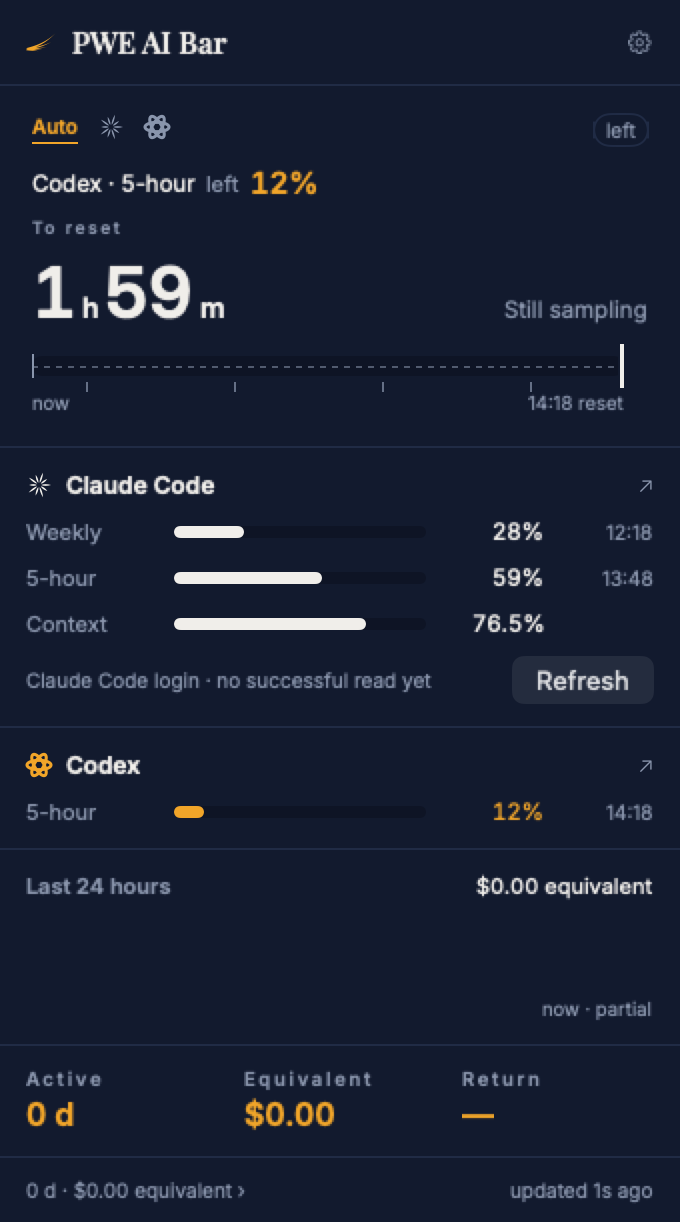
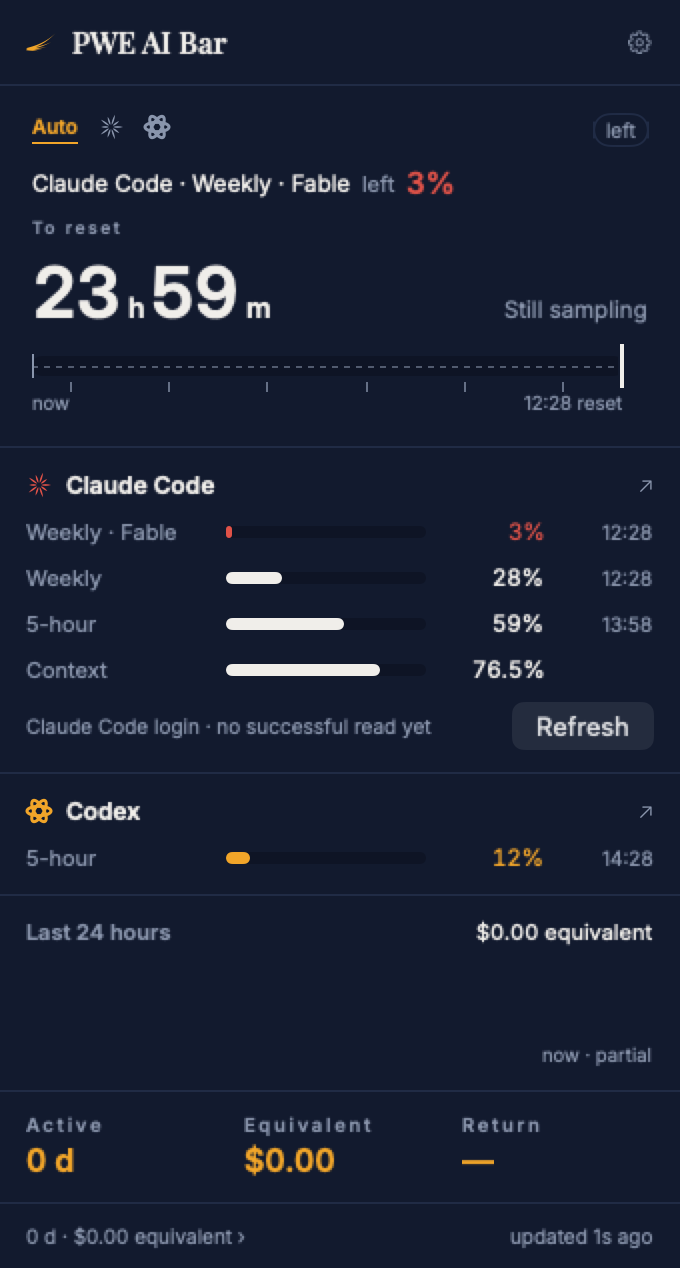
英文排得开：标签是长了，不是列窄了；战绩页四处收拾
**面板的列宽是按「周窗口」量的。** 同样的意思在拉丁文里要两三倍长，
于是 `Weekly · Fable` 到了那一列里变成 `Weekly · F…`，四行里三行被截。

修法不是把列拉宽了事。**先改文案**：英文里 "window" 是废字——那一行本来就是个窗口，
原生英文界面会写 `Weekly` 和 `5-hour`。中文保持「周窗口 / 五小时窗口」不动，
因为「周」单独不成词。然后列宽按语言分两档（汉字 66，拉丁 92），
最长的真实标签 `Weekly · Fable` 现在放得下——渲染样本里专门加了它，不是估的。

战绩页：

- **没有公开定价的模型显示成 `$0.00`。** 那读起来是「这部分免费」，
  而事实是「价格表里没有这个模型」——两种完全不同的说法，而且显示的是错的那种。
  改成 `—`，并在列表下面用一行说清楚。
- **回合数没有千分位。** `53264 turns` 是这一页上唯一没有分隔符的数字，
  旁边就是 `18.4 M` 和 `1.88 B`。
- **`claude-fable-5-1` 渲染成 `fable 5 1`** —— 两个数字，而上一行的 `opus 5` 是一个。
  点版本号是版本，不是第三个词。相邻的纯数字段现在用点接回去，配了测试。
- 对比条的图例原来两行，压成一行。

129 个测试，278 个 key。四张 README 配图重渲染过。

diff --git a/Sources/PWEAIBar/App/TrophyView.swift b/Sources/PWEAIBar/App/TrophyView.swift
@@ -124,8 +124,7 @@ struct TrophyView: View {
             }
             .frame(height: 29)
             if t.subscriptionMonthly != nil {
-                Text(L("trophy.barLegend",
-                       "Above: equivalent API cost.  Below: the subscription over the same span, same scale"))
+                Text(L("trophy.barLegend", "Same scale: cost above, subscription below"))
                     .font(Theme.sans(10.5)).foregroundStyle(Theme.hex(Theme.textDark2))
             }
         }
@@ -175,13 +174,23 @@ struct TrophyView: View {
                     HStack(spacing: Theme.s1 + 1) {
                         RoundedRectangle(cornerRadius: 2).fill(modelColour(i))
                             .frame(width: 9, height: 9)
-                        Text(short(m.model)).font(Theme.sans(12)).foregroundStyle(Theme.text)
+                        Text(shortModelName(m.model)).font(Theme.sans(12)).foregroundStyle(Theme.text)
                             .lineLimit(1).truncationMode(.middle)
-                        Text(String(format: L("trophy.turns", "%d turns"), m.turns)).font(Theme.figures(11, 400))
-                            .foregroundStyle(Theme.text2)
+                        Text(String(format: L("trophy.turns", "%@ turns"), grouped(m.turns)))
+                            .font(Theme.figures(11, 400)).foregroundStyle(Theme.text2)
                         Spacer()
-                        Text(money(m.usd)).font(Theme.figures(12, 500)).foregroundStyle(Theme.text)
+                        // A model with turns but no cost is one the price table does not carry —
+                        // rendering that as "$0.00" says the work was free, which is a different
+                        // claim entirely and the wrong one.
+                        Text(m.usd > 0 ? money(m.usd) : "—")
+                            .font(Theme.figures(12, 500))
+                            .foregroundStyle(m.usd > 0 ? Theme.text : Theme.text2)
                     }
+                }
+                if t.byModel.contains(where: { $0.usd <= 0 && $0.turns > 0 }) {
+                    Text(L("trophy.unpriced", "— no published price for that model, so it counts as nothing here"))
+                        .font(Theme.sans(10.5)).foregroundStyle(Theme.text2)
+                        .fixedSize(horizontal: false, vertical: true)
                 }
             }
         }
@@ -251,6 +260,12 @@ struct TrophyView: View {
         i == 3 ? modelColour(0) : Theme.accent.opacity(0.4 + 0.2 * Double(i))
     }
 
+    /// Thousand separators, used wherever a raw count is shown. `53264 turns` was the one place
+    /// on this page a figure was printed without them.
+    private func grouped(_ v: Int) -> String {
+        Self.grouped.string(from: NSNumber(value: v)) ?? "\(v)"
+    }
+
     private func grid(_ k: String, _ v: Int, raw: Bool = false, share: Double? = nil,
                       swatch: Color? = nil) -> some View {
         HStack {
@@ -267,7 +282,7 @@ struct TrophyView: View {
                     .font(Theme.figures(11, 400)).foregroundStyle(Theme.text2)
                     .frame(width: 44, alignment: .trailing)
             }
-            Text(raw ? (Self.grouped.string(from: NSNumber(value: v)) ?? "\(v)") : big(v))
+            Text(raw ? grouped(v) : big(v))
                 .font(Theme.figures(12, 500)).foregroundStyle(Theme.text)
                 .frame(width: 72, alignment: .trailing)
         }
@@ -284,9 +299,23 @@ struct TrophyView: View {
         i == 0 ? Theme.dyn(light: Theme.navy, dark: 0x8FA9D6) : Theme.accent
     }
 
-    private func short(_ m: String) -> String {
-        m.replacingOccurrences(of: "claude-", with: "")
-         .replacingOccurrences(of: "-", with: " ")
+    /// `claude-fable-5-1` → `fable 5.1`.
+    ///
+    /// Turning every hyphen into a space rendered the point release as a third word — `fable 5 1`
+    /// reads as two numbers, and on the row above it `opus 5` is one. Consecutive numeric
+    /// segments are a version, so they are rejoined with a dot; everything else stays a word.
+    func shortModelName(_ m: String) -> String {
+        var parts = m.replacingOccurrences(of: "claude-", with: "").split(separator: "-").map(String.init)
+        var out: [String] = []
+        for part in parts {
+            if let last = out.last, last.allSatisfy(\.isNumber), part.allSatisfy(\.isNumber) {
+                out[out.count - 1] = last + "." + part
+            } else {
+                out.append(part)
+            }
+        }
+        parts = out
+        return parts.joined(separator: " ")
     }
 
     /// `%,.0f` is not a thing in Swift — that is Python's and Java's grouping flag, and here it

diff --git a/Tests/PWEAIBarTests/BilingualRender.swift b/Tests/PWEAIBarTests/BilingualRender.swift
@@ -26,13 +26,18 @@ final class BilingualRenderTests: XCTestCase {
             var snap = Snapshot()
             let at = Date()
             snap.windows = [
-                QuotaWindow(id: "w", provider: .claude, channel: .week, title: "Weekly", percent: 72,
+                // The longest label the mapper can actually produce: a model-scoped weekly window.
+                QuotaWindow(id: "ws", provider: .claude, channel: .week,
+                            title: String(format: L("channel.weekScoped", "Weekly · %@"), "Fable"),
+                            percent: 97, severity: .critical,
+                            resetsAt: at.addingTimeInterval(86400)),
+                QuotaWindow(id: "w", provider: .claude, channel: .week, title: L("channel.week", "Weekly"), percent: 72,
                             severity: .normal, resetsAt: at.addingTimeInterval(86400),
                             isActive: true, windowLength: 7 * 86400),
-                QuotaWindow(id: "s", provider: .claude, channel: .session, title: "5-hour", percent: 41,
+                QuotaWindow(id: "s", provider: .claude, channel: .session, title: L("channel.session", "5-hour"), percent: 41,
                             severity: .normal, resetsAt: at.addingTimeInterval(5400),
                             isActive: true, windowLength: 5 * 3600),
-                QuotaWindow(id: "c", provider: .codex, channel: .codex, title: "5-hour", percent: 88,
+                QuotaWindow(id: "c", provider: .codex, channel: .codex, title: L("channel.session", "5-hour"), percent: 88,
                             severity: .warning, resetsAt: at.addingTimeInterval(7200)),
             ]
             snap.contextPercent = 23.5
@@ -47,6 +52,29 @@ final class BilingualRenderTests: XCTestCase {
                                         enableRealQuota: {}, prefs: prefs,
                                         tokenEditor: TokenEditor(hasToken: false), hookInstalled: false)
             try shoot(AnyView(settings), width: 380, to: out.appendingPathComponent("settings-\(lang.rawValue).png"))
+            // The trophy page with the shape real data actually has: five-figure turn counts and
+            // a model the price table does not carry.
+            var t = Trophy()
+            t.days = 39; t.turns = 68_967
+            t.equivalentUSD = 20_673; t.subscriptionUSD = 130
+            t.range = .all
+            t.subscriptionMonthly = Subscription(plan: "max_5x", display: "Max 5×",
+                                                 currency: "USD", monthly: 100, monthlyUSD: 100)
+            let models: [(model: String, turns: Int, usd: Double)] = [
+                ("claude-opus-5", 53_264, 13_461), ("claude-fable-5", 11_973, 5_521),
+                ("claude-fable-5-1", 3_151, 1_662), ("claude-sonnet-5", 81, 29.63),
+                ("gpt-5-6-sol", 498, 0),
+            ]
+            t.byModel = models
+            let shape: [Double] = [120, 940, 310, 60, 620, 1480, 205]
+            t.byDay = (0..<39).map { (i: Int) -> (String, Double) in
+                (String(format: "2026-08-%02d", i % 28 + 1), shape[i % 7] + Double(i * 9))
+            }
+            t.tokens = (18_402_113, 2_940_881, 41_002_774, 1_884_339_002)
+            for dark in [true, false] {
+                try shoot(AnyView(TrophyView(trophy: t, prefs: prefs)), width: 460, dark: dark,
+                          to: out.appendingPathComponent("trophy-\(lang.rawValue)-\(dark ? "dark" : "light").png"))
+            }
             store.stop()
         }
         Loc.language = .en

diff --git a/Sources/PWEAIBar/Providers/ClaudeUsageMapper.swift b/Sources/PWEAIBar/Providers/ClaudeUsageMapper.swift
@@ -70,8 +70,8 @@ enum ClaudeUsageMapper {
             guard let kind = ClaudeValue.text(node["kind"]) else { continue }
             let id: String, label: String, channel: Channel
             switch kind {
-            case "session": id = "five_hour"; label = L("channel.session", "5-hour window"); channel = .session
-            case "weekly_all": id = "seven_day"; label = L("channel.week", "Weekly window"); channel = .week
+            case "session": id = "five_hour"; label = L("channel.session", "5-hour"); channel = .session
+            case "weekly_all": id = "seven_day"; label = L("channel.week", "Weekly"); channel = .week
             default:
                 guard kind == "weekly_scoped" || node["group"] as? String == "weekly" else { continue }
                 let scope = node["scope"] as? [String: Any] ?? [:]
@@ -146,8 +146,8 @@ enum ClaudeUsageMapper {
     }
 
     private static func title(_ id: String) -> String {
-        if id == "five_hour" { return L("channel.session", "5-hour window") }
-        if id == "seven_day" { return L("channel.week", "Weekly window") }
+        if id == "five_hour" { return L("channel.session", "5-hour") }
+        if id == "seven_day" { return L("channel.week", "Weekly") }
         return id.replacingOccurrences(of: "seven_day_",
                                       with: String(format: L("channel.weekScoped", "Weekly · %@"), ""))
             .replacingOccurrences(of: "_", with: " ").capitalized

diff --git a/Sources/PWEAIBar/App/PanelView.swift b/Sources/PWEAIBar/App/PanelView.swift
@@ -487,9 +487,13 @@ struct PanelView: View {
         HStack(spacing: Theme.s2) {
             // Fixed columns keep the four baselines aligned down the whole panel; truncation
             // is what stops an unexpectedly long name from pushing the number off the edge.
+            //
+            // Two widths, because 66 pt was measured against 「周窗口」. The same meaning in Latin
+            // runs two to three times longer — "Weekly · Fable" arrived as "Weekly · F…" — and a
+            // column sized for Han truncates almost every English label it is given.
             Text(w.title).font(Theme.sans(11)).foregroundStyle(Theme.text2)
                 .lineLimit(1).truncationMode(.tail)
-                .frame(width: 66, alignment: .leading)
+                .frame(width: Loc.isCJK ? 66 : 92, alignment: .leading)
             track(w).frame(maxWidth: .infinity)
             Text(Readout.panelText(w, remaining: prefs.showRemaining)).font(Theme.figures(11.5, 600))
                 .foregroundStyle(Theme.health(w.band, dark: isDark))

diff --git a/Sources/PWEAIBar/Providers/CodexProvider.swift b/Sources/PWEAIBar/Providers/CodexProvider.swift
@@ -146,8 +146,8 @@ actor CodexProvider {
         // Chinese numerals for the two everyone has, so Codex's rows read the same as Claude's;
         // digits for anything unusual, where being exact matters more than matching.
         switch minutes {
-        case .some(300):                       return L("channel.session", "5-hour window")
-        case .some(10080):                     return L("channel.week", "Weekly window")
+        case .some(300):                       return L("channel.session", "5-hour")
+        case .some(10080):                     return L("channel.week", "Weekly")
         case .some(let m) where m <= 60:       return String(format: L("window.minutes", "%d-minute window"), m)
         case .some(let m) where m < 1440:      return String(format: L("window.hours", "%d-hour window"), m / 60)
         case .some(let m) where m % 1440 == 0: return String(format: L("window.days", "%d-day window"), m / 1440)

diff --git a/Tests/PWEAIBarTests/LocalisationTests.swift b/Tests/PWEAIBarTests/LocalisationTests.swift
@@ -51,3 +51,18 @@ final class LocalisationTests: XCTestCase {
         }
     }
 }
+
+/// Small display formatters that were each wrong in a way a screenshot showed and a test did not.
+final class TrophyFormattingTests: XCTestCase {
+    override func setUp() { super.setUp(); Loc.language = .en }
+
+    /// `claude-fable-5-1` used to render as `fable 5 1` — two numbers, next to `opus 5` which is
+    /// one. A point release is a version, not a third word.
+    @MainActor func testAPointReleaseStaysOneNumber() {
+        let v = TrophyView(trophy: Trophy())
+        XCTAssertEqual(v.shortModelName("claude-fable-5-1"), "fable 5.1")
+        XCTAssertEqual(v.shortModelName("claude-opus-5"), "opus 5")
+        XCTAssertEqual(v.shortModelName("claude-haiku-4-5"), "haiku 4.5")
+        XCTAssertEqual(v.shortModelName("gpt-5-6-sol"), "gpt 5.6 sol")
+    }
+}

diff --git a/Tests/PWEAIBarTests/QuotaTests.swift b/Tests/PWEAIBarTests/QuotaTests.swift
@@ -111,7 +111,7 @@ final class QuotaTests: XCTestCase {
         XCTAssertEqual(reading.planType, "team")
         XCTAssertEqual(reading.resetCredits, 2)
         XCTAssertEqual(reading.windows.map(\.percent), [83, 44, nil])
-        XCTAssertEqual(reading.windows.map(\.title), ["5-hour window", "Weekly window", "Extra credits"])
+        XCTAssertEqual(reading.windows.map(\.title), ["5-hour", "Weekly", "Extra credits"])
         XCTAssertEqual(reading.windows.map(\.id), ["codex_300", "codex_10080", "codex_credits"])
         // The spent add-on pool is its own row, never the quota's headline.
         XCTAssertFalse(reading.windows[0].confirmedExhausted)

diff --git a/Sources/PWEAIBar/Core/Channel.swift b/Sources/PWEAIBar/Core/Channel.swift
@@ -38,7 +38,7 @@ enum Channel: Int, CaseIterable {
     var label: String { ["CTX", "CDX", "ETC", "7D", "5H"][rawValue] }
     var name: String {
         [L("channel.context", "Context"), "Codex", L("channel.other", "Other"),
-         L("channel.week", "Weekly window"), L("channel.session", "5-hour window")][rawValue]
+         L("channel.week", "Weekly"), L("channel.session", "5-hour")][rawValue]
     }
 
     /// Percent thresholds. Only used when a source gives us a bare number and no severity of
